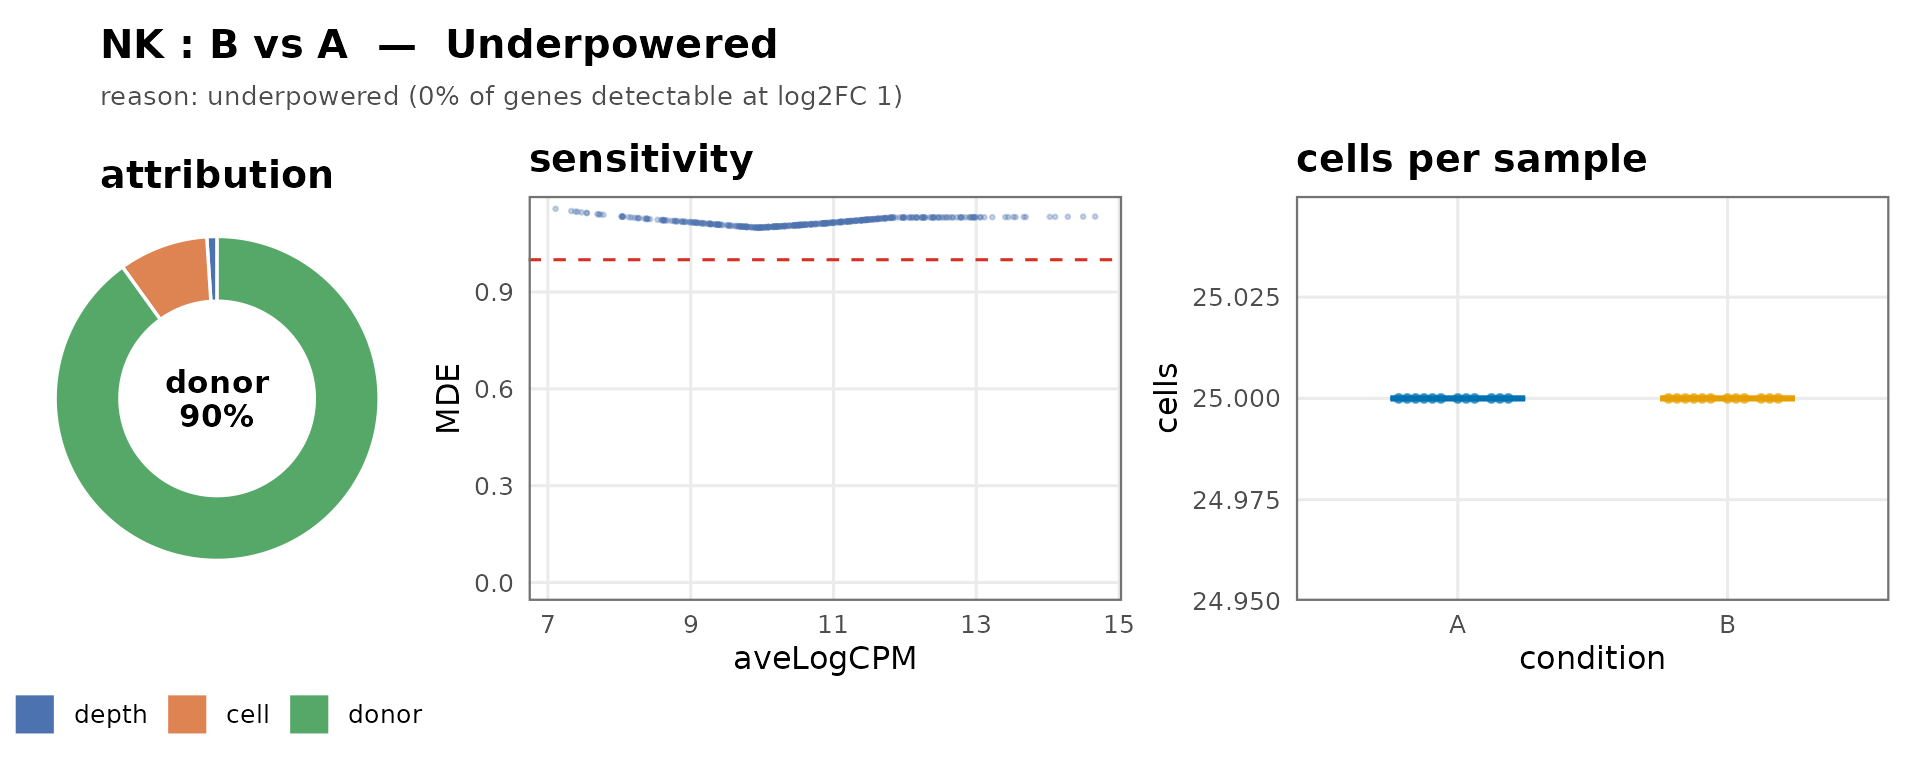
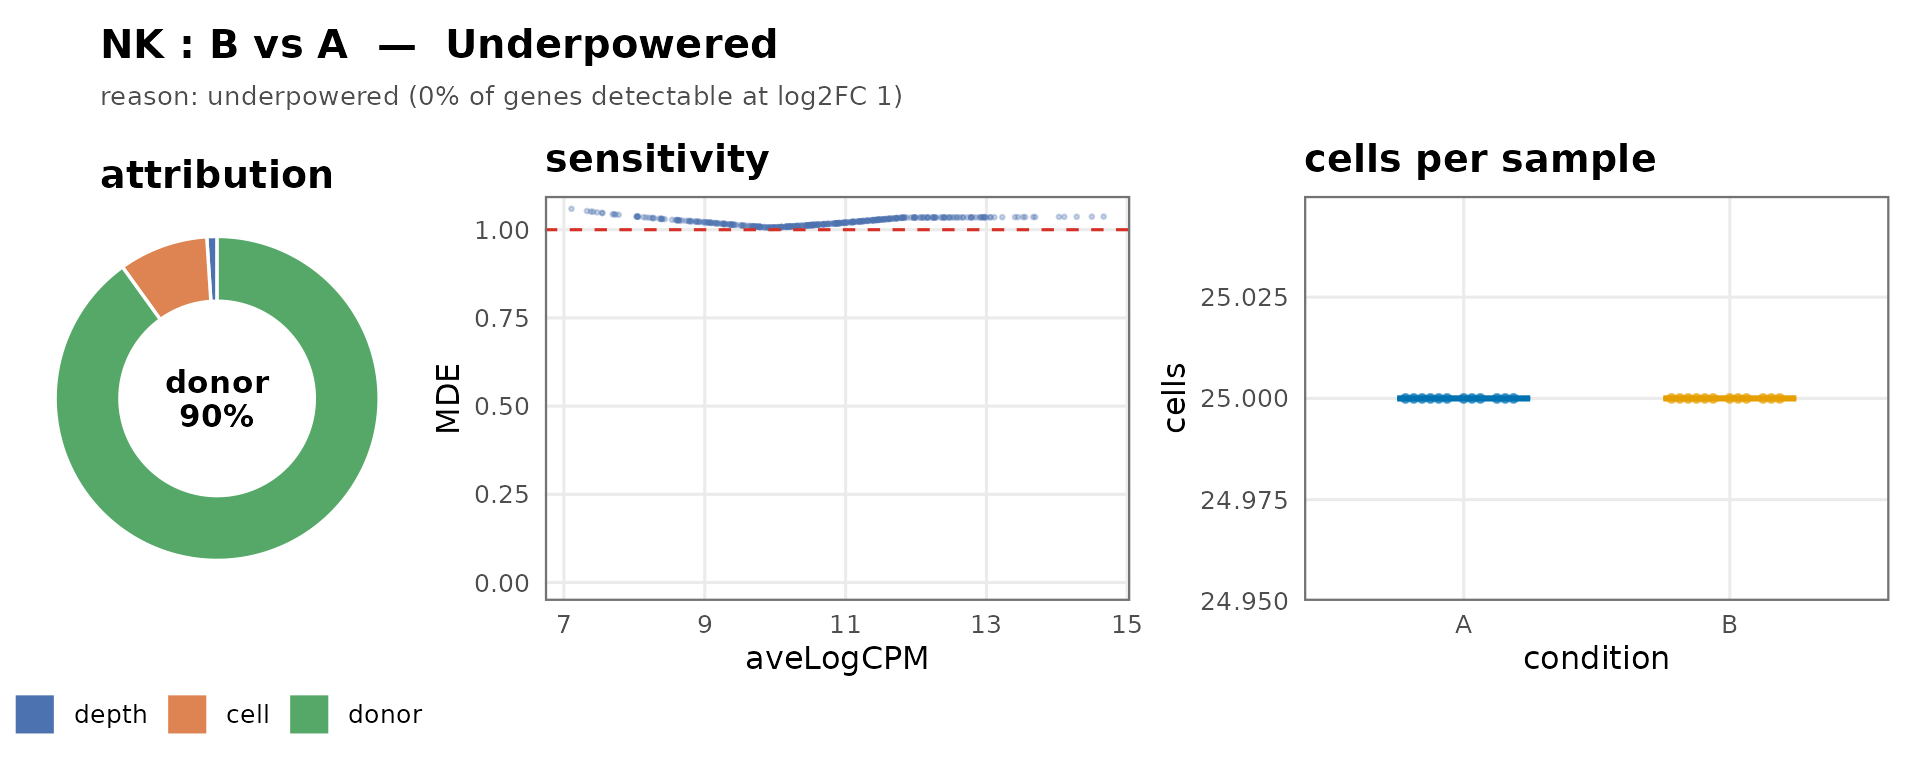
Deploying to gh-pages from @ smorabit/seny@e25f0b34e5384ed8372ce01af9f813c95ae74557 🚀

diff --git a/reference/estimateSensitivity.html b/reference/estimateSensitivity.html
@@ -1,12 +1,12 @@
 <!DOCTYPE html>
-<!-- Generated by pkgdown: do not edit by hand --><html lang="en"><head><meta charset="UTF-8"><meta http-equiv="X-UA-Compatible" content="IE=edge"><meta name="viewport" content="width=device-width, initial-scale=1, shrink-to-fit=no"><title>Layer 4 (sensitivity): minimum detectable effect and power — estimateSensitivity • seny</title><script src="../deps/jquery-3.6.0/jquery-3.6.0.min.js"></script><meta name="viewport" content="width=device-width, initial-scale=1, shrink-to-fit=no"><link href="../deps/bootstrap-5.3.8/bootstrap.min.css" rel="stylesheet"><script src="../deps/bootstrap-5.3.8/bootstrap.bundle.min.js"></script><link href="../deps/font-awesome-6.5.2/css/all.min.css" rel="stylesheet"><link href="../deps/font-awesome-6.5.2/css/v4-shims.min.css" rel="stylesheet"><script src="../deps/headroom-0.11.0/headroom.min.js"></script><script src="../deps/headroom-0.11.0/jQuery.headroom.min.js"></script><script src="../deps/bootstrap-toc-1.0.1/bootstrap-toc.min.js"></script><script src="../deps/clipboard.js-2.0.11/clipboard.min.js"></script><script src="../deps/search-1.0.0/autocomplete.jquery.min.js"></script><script src="../deps/search-1.0.0/fuse.min.js"></script><script src="../deps/search-1.0.0/mark.min.js"></script><!-- pkgdown --><script src="../pkgdown.js"></script><meta property="og:title" content="Layer 4 (sensitivity): minimum detectable effect and power — estimateSensitivity"><meta name="description" content="From the null-model variance fits (estimateVariance()), computes the
+<!-- Generated by pkgdown: do not edit by hand --><html lang="en"><head><meta charset="UTF-8"><meta http-equiv="X-UA-Compatible" content="IE=edge"><meta name="viewport" content="width=device-width, initial-scale=1, shrink-to-fit=no"><title>Layer 4 (sensitivity): minimum detectable effect and power — estimateSensitivity • seny</title><script src="../deps/jquery-3.6.0/jquery-3.6.0.min.js"></script><meta name="viewport" content="width=device-width, initial-scale=1, shrink-to-fit=no"><link href="../deps/bootstrap-5.3.8/bootstrap.min.css" rel="stylesheet"><script src="../deps/bootstrap-5.3.8/bootstrap.bundle.min.js"></script><link href="../deps/font-awesome-6.5.2/css/all.min.css" rel="stylesheet"><link href="../deps/font-awesome-6.5.2/css/v4-shims.min.css" rel="stylesheet"><script src="../deps/headroom-0.11.0/headroom.min.js"></script><script src="../deps/headroom-0.11.0/jQuery.headroom.min.js"></script><script src="../deps/bootstrap-toc-1.0.1/bootstrap-toc.min.js"></script><script src="../deps/clipboard.js-2.0.11/clipboard.min.js"></script><script src="../deps/search-1.0.0/autocomplete.jquery.min.js"></script><script src="../deps/search-1.0.0/fuse.min.js"></script><script src="../deps/search-1.0.0/mark.min.js"></script><!-- pkgdown --><script src="../pkgdown.js"></script><meta property="og:title" content="Layer 4 (sensitivity): minimum detectable effect and power — estimateSensitivity"><meta name="description" content="From the variance fits (estimateVariance()), computes the
 analytic standard error of the two-group log2 fold-change contrast per gene
 (SE^2 = 1/sum_A w + 1/sum_B w, w = 1/(1/mu + phi), phi the dispersion with the
 condition in the design), the minimum
 detectable effect at the target power and FDR, and the power at the primary
 target effect. Summarises to the sensitivity fraction: the share of testable
 genes detectable at targetLFC. Uncalibrated in the MVP (calibrate = FALSE);
-the empirical calibration from E2/E7 is applied in a later phase."><meta property="og:description" content="From the null-model variance fits (estimateVariance()), computes the
+the empirical calibration from E2/E7 is applied in a later phase."><meta property="og:description" content="From the variance fits (estimateVariance()), computes the
 analytic standard error of the two-group log2 fold-change contrast per gene
 (SE^2 = 1/sum_A w + 1/sum_B w, w = 1/(1/mu + phi), phi the dispersion with the
 condition in the design), the minimum
@@ -49,7 +49,7 @@ the empirical calibration from E2/E7 is applied in a later phase."></head><body>
     </div>
 
     <div class="ref-description section level2">
-    <p>From the null-model variance fits (<code><a href="estimateVariance.html">estimateVariance()</a></code>), computes the
+    <p>From the variance fits (<code><a href="estimateVariance.html">estimateVariance()</a></code>), computes the
 analytic standard error of the two-group log2 fold-change contrast per gene
 (<code>SE^2 = 1/sum_A w + 1/sum_B w</code>, <code>w = 1/(1/mu + phi)</code>, phi the dispersion with the
 condition in the design), the minimum
@@ -66,8 +66,8 @@ the empirical calibration from E2/E7 is applied in a later phase.</p>
 <span>  targetLFC <span class="op">=</span> <span class="fl">1</span>,</span>
 <span>  power <span class="op">=</span> <span class="fl">0.8</span>,</span>
 <span>  fdr <span class="op">=</span> <span class="fl">0.05</span>,</span>
-<span>  pi1 <span class="op">=</span> <span class="fl">0.05</span>,</span>
-<span>  alphaFixed <span class="op">=</span> <span class="fl">0.001</span>,</span>
+<span>  pi1 <span class="op">=</span> <span class="st">"discoveries"</span>,</span>
+<span>  alphaFixed <span class="op">=</span> <span class="cn">NULL</span>,</span>
 <span>  calibrate <span class="op">=</span> <span class="cn">FALSE</span></span>
 <span><span class="op">)</span></span></code></pre></div>
     </div>
@@ -94,14 +94,17 @@ Default 1.</p></dd>
 
 
 <dt id="arg-pi-">pi1<a class="anchor" aria-label="anchor" href="#arg-pi-"></a></dt>
-<dd><p>Assumed fraction of true positives (maps FDR to a per-gene
-threshold, Jung 2005). Default 0.05.</p></dd>
+<dd><p>Fraction of true positives that maps the FDR to a per-gene
+threshold: <code>"discoveries"</code> (default) estimates it per comparison as the
+fraction of genes the comparison's own DE test calls at <code>fdr</code>; a number
+fixes it for every comparison (falls back to 0.05 for a comparison whose
+fit has no p-values).</p></dd>
 
 
 <dt id="arg-alphafixed">alphaFixed<a class="anchor" aria-label="anchor" href="#arg-alphafixed"></a></dt>
-<dd><p>Fixed per-gene significance level for the second MDE.
-Default 0.001. The call uses the larger MDE; <code>alphaFixed = 1</code> recovers the
-FDR-based MDE alone.</p></dd>
+<dd><p>Optional fixed per-gene significance level. <code>NULL</code> (default)
+uses the <code>pi1</code>-mapped level alone; a number makes the call use the stricter
+of the two (the larger MDE).</p></dd>
 
 
 <dt id="arg-calibrate">calibrate<a class="anchor" aria-label="anchor" href="#arg-calibrate"></a></dt>
@@ -110,18 +113,24 @@ FDR-based MDE alone.</p></dd>
 </dl></div>
     <div class="section level2">
     <h2 id="value">Value<a class="anchor" aria-label="anchor" href="#value"></a></h2>
-    <p>A <code>data.frame</code>, one row per comparison, with <code>target_lfc</code>,
-<code>sensitivity_fraction</code>, <code>median_mde</code> (the larger of the two per gene),
-<code>median_mde_fdr</code>, <code>median_mde_fixed</code> and <code>median_power</code>.</p>
+    <p>A <code>data.frame</code>, one row per comparison, with <code>target_lfc</code>, the <code>pi1</code>
+and per-gene <code>alpha</code> used, <code>sensitivity_fraction</code>, <code>median_mde</code>,
+<code>median_mde_fdr</code>, <code>median_mde_fixed</code> (<code>NA</code> without <code>alphaFixed</code>) and
+<code>median_power</code>.</p>
     </div>
     <div class="section level2">
     <h2 id="details">Details<a class="anchor" aria-label="anchor" href="#details"></a></h2>
-    <p>Two MDEs are computed per gene: an FDR-based one (the FDR mapped to a per-gene
-threshold through the assumed fraction of true positives <code>pi1</code>) and one at a
-fixed per-gene <code>alphaFixed</code>. The call uses the larger of the two (the stricter
-threshold), because the FDR mapping is optimistic when few genes are truly
-DE: then BH rejects far fewer tests than <code>pi1</code> implies (E4, male vs female in
-blood: realised BH threshold ~1e-4 vs the mapped ~2e-3).</p>
+    <p>The FDR target is mapped to a per-gene significance level through the
+fraction of true positives <code>pi1</code> (Jung 2005), capped at <code>fdr</code> (BH never tests
+a gene at more than the FDR level). BH's realised per-gene threshold scales
+with the fraction of genes it calls, so no fixed <code>pi1</code> suits every contrast: a
+sparse contrast (male vs female in blood, realised threshold ~1e-4) makes a
+fixed 5% optimistic, a dense one makes it conservative. By default
+(<code>pi1 = "discoveries"</code>) each comparison uses its own fraction of BH discoveries,
+<code>R / m</code> from the DE test of the chosen method at <code>fdr</code> (floored at <code>1 / m</code>), so
+power is evaluated at the threshold BH actually uses there. On OneK1K with 0.5-20\<!-- % -->
+of genes injected as DE and on male vs female it was the best calibrated of the
+rules tested (E4b).</p>
     </div>
 
   </main><aside class="col-md-3"><nav id="toc" aria-label="Table of contents"><h2>On this page</h2>

diff --git a/reference/assessAll.html b/reference/assessAll.html
@@ -66,8 +66,8 @@ Invalid call per cluster-by-contrast comparison.</p>
 <span>  targetLFC <span class="op">=</span> <span class="fl">1</span>,</span>
 <span>  power <span class="op">=</span> <span class="fl">0.8</span>,</span>
 <span>  fdr <span class="op">=</span> <span class="fl">0.05</span>,</span>
-<span>  pi1 <span class="op">=</span> <span class="fl">0.05</span>,</span>
-<span>  alphaFixed <span class="op">=</span> <span class="fl">0.001</span>,</span>
+<span>  pi1 <span class="op">=</span> <span class="st">"discoveries"</span>,</span>
+<span>  alphaFixed <span class="op">=</span> <span class="cn">NULL</span>,</span>
 <span>  thresholds <span class="op">=</span> <span class="fu"><a href="defaultThresholds.html">defaultThresholds</a></span><span class="op">(</span><span class="op">)</span>,</span>
 <span>  thetaReps <span class="op">=</span> <span class="fl">3</span>,</span>
 <span>  BPPARAM <span class="op">=</span> <span class="fu">BiocParallel</span><span class="fu">::</span><span class="fu"><a href="https://rdrr.io/pkg/BiocParallel/man/SerialParam-class.html" class="external-link">SerialParam</a></span><span class="op">(</span><span class="op">)</span></span>
@@ -139,6 +139,12 @@ require <code>aggregation = "sum"</code>; <code>aggregation = "mean"</code> requ
 
 <dt id="arg-thresholds">thresholds<a class="anchor" aria-label="anchor" href="#arg-thresholds"></a></dt>
 <dd><p>A list from <code><a href="defaultThresholds.html">defaultThresholds()</a></code>.</p></dd>
+
+
+<dt id="arg-thetareps">thetaReps<a class="anchor" aria-label="anchor" href="#arg-thetareps"></a></dt>
+<dd><p>Subsample repeats for the cell-level theta fit, passed to
+<code><a href="pbSetup.html">pbSetup()</a></code>; <code>0</code> skips it (the call is unchanged, the variance
+decomposition is <code>NA</code>).</p></dd>
 
 
 <dt id="arg-bpparam">BPPARAM<a class="anchor" aria-label="anchor" href="#arg-bpparam"></a></dt>

diff --git a/reference/estimateVariance.html b/reference/estimateVariance.html
@@ -99,7 +99,9 @@ variance model, so it has no NB decomposition (those columns are <code>NA</code>
     <h2 id="value">Value<a class="anchor" aria-label="anchor" href="#value"></a></h2>
     <p>A list with <code>summary</code> (a <code>data.frame</code>, one row per comparison, with the
 <code>method</code>, the NB decomposition and regime) and <code>pergene</code> (a named list of
-per-comparison fits carrying <code>se_log2</code> and <code>df</code> for sensitivity).</p>
+per-comparison fits carrying <code>se_log2</code> and <code>df</code> for sensitivity, and the
+method's own p-values for the condition, <code>pvalue</code>, behind the
+<code>pi1 = "discoveries"</code> mapping in <code><a href="estimateSensitivity.html">estimateSensitivity()</a></code>).</p>
     </div>
     <div class="section level2">
     <h2 id="details">Details<a class="anchor" aria-label="anchor" href="#details"></a></h2>

diff --git a/reference/estimateSensitivity.md b/reference/estimateSensitivity.md
@@ -1,6 +1,6 @@
 # Layer 4 (sensitivity): minimum detectable effect and power
 
-From the null-model variance fits
+From the variance fits
 ([`estimateVariance()`](https://smorabit.github.io/seny/reference/estimateVariance.md)),
 computes the analytic standard error of the two-group log2 fold-change
 contrast per gene (`SE^2 = 1/sum_A w + 1/sum_B w`, `w = 1/(1/mu + phi)`,
@@ -19,8 +19,8 @@ estimateSensitivity(
   targetLFC = 1,
   power = 0.8,
   fdr = 0.05,
-  pi1 = 0.05,
-  alphaFixed = 0.001,
+  pi1 = "discoveries",
+  alphaFixed = NULL,
   calibrate = FALSE
 )
 ```
@@ -46,14 +46,17 @@ estimateSensitivity(
 
 - pi1:
 
-  Assumed fraction of true positives (maps FDR to a per-gene threshold,
-  Jung 2005). Default 0.05.
+  Fraction of true positives that maps the FDR to a per-gene threshold:
+  `"discoveries"` (default) estimates it per comparison as the fraction
+  of genes the comparison's own DE test calls at `fdr`; a number fixes
+  it for every comparison (falls back to 0.05 for a comparison whose fit
+  has no p-values).
 
 - alphaFixed:
 
-  Fixed per-gene significance level for the second MDE. Default 0.001.
-  The call uses the larger MDE; `alphaFixed = 1` recovers the FDR-based
-  MDE alone.
+  Optional fixed per-gene significance level. `NULL` (default) uses the
+  `pi1`-mapped level alone; a number makes the call use the stricter of
+  the two (the larger MDE).
 
 - calibrate:
 
@@ -61,16 +64,22 @@ estimateSensitivity(
 
 ## Value
 
-A `data.frame`, one row per comparison, with `target_lfc`,
-`sensitivity_fraction`, `median_mde` (the larger of the two per gene),
-`median_mde_fdr`, `median_mde_fixed` and `median_power`.
+A `data.frame`, one row per comparison, with `target_lfc`, the `pi1` and
+per-gene `alpha` used, `sensitivity_fraction`, `median_mde`,
+`median_mde_fdr`, `median_mde_fixed` (`NA` without `alphaFixed`) and
+`median_power`.
 
 ## Details
 
-Two MDEs are computed per gene: an FDR-based one (the FDR mapped to a
-per-gene threshold through the assumed fraction of true positives `pi1`)
-and one at a fixed per-gene `alphaFixed`. The call uses the larger of
-the two (the stricter threshold), because the FDR mapping is optimistic
-when few genes are truly DE: then BH rejects far fewer tests than `pi1`
-implies (E4, male vs female in blood: realised BH threshold ~1e-4 vs the
-mapped ~2e-3).
+The FDR target is mapped to a per-gene significance level through the
+fraction of true positives `pi1` (Jung 2005), capped at `fdr` (BH never
+tests a gene at more than the FDR level). BH's realised per-gene
+threshold scales with the fraction of genes it calls, so no fixed `pi1`
+suits every contrast: a sparse contrast (male vs female in blood,
+realised threshold ~1e-4) makes a fixed 5% optimistic, a dense one makes
+it conservative. By default (`pi1 = "discoveries"`) each comparison uses
+its own fraction of BH discoveries, `R / m` from the DE test of the
+chosen method at `fdr` (floored at `1 / m`), so power is evaluated at
+the threshold BH actually uses there. On OneK1K with 0.5-20\\ of genes
+injected as DE and on male vs female it was the best calibrated of the
+rules tested (E4b).

diff --git a/reference/assessAll.md b/reference/assessAll.md
@@ -31,8 +31,8 @@ assessAll(
   targetLFC = 1,
   power = 0.8,
   fdr = 0.05,
-  pi1 = 0.05,
-  alphaFixed = 0.001,
+  pi1 = "discoveries",
+  alphaFixed = NULL,
   thresholds = defaultThresholds(),
   thetaReps = 3,
   BPPARAM = BiocParallel::SerialParam()
@@ -108,6 +108,13 @@ assessAll(
 
   A list from
   [`defaultThresholds()`](https://smorabit.github.io/seny/reference/defaultThresholds.md).
+
+- thetaReps:
+
+  Subsample repeats for the cell-level theta fit, passed to
+  [`pbSetup()`](https://smorabit.github.io/seny/reference/pbSetup.md);
+  `0` skips it (the call is unchanged, the variance decomposition is
+  `NA`).
 
 - BPPARAM:
 

diff --git a/reference/estimateVariance.md b/reference/estimateVariance.md
@@ -43,7 +43,10 @@ estimateVariance(x, method = c("edgeR", "deseq2", "voom", "dreamlet"))
 
 A list with `summary` (a `data.frame`, one row per comparison, with the
 `method`, the NB decomposition and regime) and `pergene` (a named list
-of per-comparison fits carrying `se_log2` and `df` for sensitivity).
+of per-comparison fits carrying `se_log2` and `df` for sensitivity, and
+the method's own p-values for the condition, `pvalue`, behind the
+`pi1 = "discoveries"` mapping in
+[`estimateSensitivity()`](https://smorabit.github.io/seny/reference/estimateSensitivity.md)).
 
 ## Details
 
